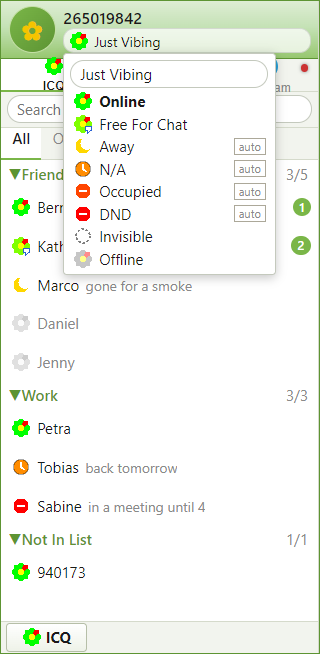
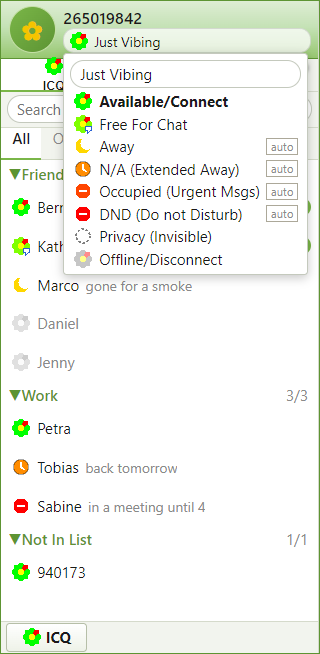
fix: ICQ's own status labels, and correct the N/A rule
Screenshots of the real preferences dialogs and status menu, supplied by the
project owner, close the largest remaining gap — no archive search had turned
up a preferences dialog in either era — and correct two things.

The status labels were shortened. ICQ wrote them with their explanations
attached, and the parenthetical halves are not decoration:

  Available/Connect · Free For Chat · Away · N/A (Extended Away) ·
  Occupied (Urgent Msgs) · DND (Do not Disturb) · Privacy (Invisible) ·
  Offline/Disconnect

"Occupied (Urgent Msgs)" tells you urgent messages still get through, which is
exactly what separates it from DND and is invisible when the label is the bare
word.

The N/A threshold was wrong. The original counts it from when Away began, not
from the last keystroke: "Automatically Set N/A After [5] Minutes of Away".
This was implemented as a second absolute idle timer. The preferences page now
says what it measures.

Also recorded in docs/ORIGINAL-REFERENCE.md, for later work: the full page
lists of the classic Owner Preferences, ICQ 6/7 Options and ICQ 8 Settings;
the per-contact Alert/Accept Modes submenu, which let specific people reach
you through DND and is finer-grained than anything modern messengers offer;
that ICQ 7's Accounts page connected Facebook, Google Talk, Yahoo and others
into one contact list — the same idea this project inherited as its WhatsApp
and Telegram tabs; and the "show me as Occupied when running full-screen
[…]

Changed region(s): [[0.3125, 0.0612, 0.9688, 0.4281], [0.3125, 0.1223, 0.7188, 0.1835]]

diff --git a/src/components/icq/StatusMenu.test.js b/src/components/icq/StatusMenu.test.js
@@ -6,20 +6,32 @@ import StatusMenu, { HISTORY_KEY, HISTORY_MAX } from './StatusMenu';
 
 beforeEach(() => localStorage.clear());
 
+/**
+ * Find a status item by its visible label.
+ *
+ * The accessible name includes the icon's title and the 'auto' marker, so
+ * matching on role+name is ambiguous once labels share words — "Away" is
+ * inside "N/A (Extended Away)".
+ */
+const statusItem = (label) => screen.getAllByRole('menuitemradio')
+  .find((b) => b.querySelector('.icq-status-label').textContent === label);
+
+
 describe('the Status list', () => {
   it('offers all eight Statuses in ICQ order', () => {
     render(<StatusMenu />);
     const labels = screen.getAllByRole('menuitemradio')
       .map((b) => b.querySelector('.icq-status-label').textContent);
     expect(labels).toEqual([
-      'Online', 'Free For Chat', 'Away', 'N/A', 'Occupied', 'DND', 'Invisible', 'Offline',
+      'Available/Connect', 'Free For Chat', 'Away', 'N/A (Extended Away)',
+      'Occupied (Urgent Msgs)', 'DND (Do not Disturb)', 'Privacy (Invisible)', 'Offline/Disconnect',
     ]);
   });
 
   it('marks the current Status', () => {
     render(<StatusMenu current="away" />);
-    expect(screen.getByRole('menuitemradio', { name: /Away/ })).toHaveAttribute('aria-checked', 'true');
-    expect(screen.getByRole('menuitemradio', { name: /^Online/ })).toHaveAttribute('aria-checked', 'false');
+    expect(statusItem('Away')).toHaveAttribute('aria-checked', 'true');
+    expect(statusItem('Available/Connect')).toHaveAttribute('aria-checked', 'false');
   });
 
   it('flags exactly the Statuses that answer on the Owner behalf', () => {
@@ -28,14 +40,14 @@ describe('the Status list', () => {
       .filter((b) => b.querySelector('.icq-status-auto'))
       .map((b) => b.querySelector('.icq-status-label').textContent);
     // Picking Occupied starting to reply for you should not be a surprise.
-    expect(flagged).toEqual(['Away', 'N/A', 'Occupied', 'DND']);
+    expect(flagged).toEqual(['Away', 'N/A (Extended Away)', 'Occupied (Urgent Msgs)', 'DND (Do not Disturb)']);
   });
 
   it('reports the chosen Status and the Status Text together', async () => {
     const user = userEvent.setup();
     const onChange = jest.fn();
     render(<StatusMenu onChange={onChange} statusText="Just Vibing" />);
-    await user.click(screen.getByRole('menuitemradio', { name: /Away/ }));
+    await user.click(statusItem('Away'));
     expect(onChange).toHaveBeenCalledWith('away', 'Just Vibing');
   });
 
@@ -43,7 +55,7 @@ describe('the Status list', () => {
     const user = userEvent.setup();
     const onClose = jest.fn();
     render(<StatusMenu onClose={onClose} onChange={() => {}} />);
-    await user.click(screen.getByRole('menuitemradio', { name: /DND/ }));
+    await user.click(statusItem('DND (Do not Disturb)'));
     expect(onClose).toHaveBeenCalled();
   });
 });
@@ -54,7 +66,7 @@ describe('Status Text', () => {
     const onChange = jest.fn();
     render(<StatusMenu onChange={onChange} />);
     await user.type(screen.getByLabelText(/Status message/i), 'in a meeting');
-    await user.click(screen.getByRole('menuitemradio', { name: /Occupied/ }));
+    await user.click(statusItem('Occupied (Urgent Msgs)'));
     expect(onChange).toHaveBeenCalledWith('occupied', 'in a meeting');
   });
 
@@ -71,7 +83,7 @@ describe('Status Text', () => {
     const onChange = jest.fn();
     render(<StatusMenu onChange={onChange} />);
     await user.type(screen.getByLabelText(/Status message/i), '  spaced  ');
-    await user.click(screen.getByRole('menuitemradio', { name: /^Online/ }));
+    await user.click(statusItem('Available/Connect'));
     expect(onChange).toHaveBeenCalledWith('online', 'spaced');
   });
 });
@@ -98,7 +110,7 @@ describe('remembering Status Texts', () => {
     localStorage.setItem(HISTORY_KEY, JSON.stringify(['old']));
     render(<StatusMenu onChange={() => {}} />);
     await user.type(screen.getByLabelText(/Status message/i), 'new');
-    await user.click(screen.getByRole('menuitemradio', { name: /^Online/ }));
+    await user.click(statusItem('Available/Connect'));
     expect(JSON.parse(localStorage.getItem(HISTORY_KEY))).toEqual(['new', 'old']);
   });
 
@@ -106,14 +118,14 @@ describe('remembering Status Texts', () => {
     const user = userEvent.setup();
     localStorage.setItem(HISTORY_KEY, JSON.stringify(['a', 'b']));
     render(<StatusMenu onChange={() => {}} statusText="b" />);
-    await user.click(screen.getByRole('menuitemradio', { name: /^Online/ }));
+    await user.click(statusItem('Available/Connect'));
     expect(JSON.parse(localStorage.getItem(HISTORY_KEY))).toEqual(['b', 'a']);
   });
 
   it('does not store an empty line', async () => {
     const user = userEvent.setup();
     render(<StatusMenu onChange={() => {}} />);
-    await user.click(screen.getByRole('menuitemradio', { name: /^Online/ }));
+    await user.click(statusItem('Available/Connect'));
     expect(localStorage.getItem(HISTORY_KEY)).toBeNull();
   });
 
@@ -124,7 +136,7 @@ describe('remembering Status Texts', () => {
     ));
     render(<StatusMenu onChange={() => {}} />);
     await user.type(screen.getByLabelText(/Status message/i), 'newest');
-    await user.click(screen.getByRole('menuitemradio', { name: /^Online/ }));
+    await user.click(statusItem('Available/Connect'));
     const stored = JSON.parse(localStorage.getItem(HISTORY_KEY));
     expect(stored).toHaveLength(HISTORY_MAX);
     expect(stored[0]).toBe('newest');

diff --git a/src/components/icq/StatusMenu.js b/src/components/icq/StatusMenu.js
@@ -15,16 +15,25 @@ import './StatusMenu.css';
  *     why picking Occupied starts answering people on your behalf.
  */
 
-/** ICQ's order, with the descriptions the original showed. */
+/**
+ * ICQ's order, with ICQ's own labels.
+ *
+ * The parenthetical halves are not decoration, they are the explanation, and
+ * dropping them loses the distinction. "Occupied (Urgent Msgs)" tells you that
+ * urgent messages still get through — which is exactly what separates it from
+ * DND, and is invisible if the label is just "Occupied".
+ *
+ * Verified from screenshots of the real status menu.
+ */
 const STATUSES = [
-  { name: 'online', label: 'Online', hint: 'Available' },
+  { name: 'online', label: 'Available/Connect', hint: 'Reachable' },
   { name: 'chat', label: 'Free For Chat', hint: 'Looking for someone to talk to' },
   { name: 'away', label: 'Away', hint: 'Stepped out', autoReply: true },
-  { name: 'na', label: 'N/A', hint: 'Away for a while', autoReply: true },
-  { name: 'occupied', label: 'Occupied', hint: 'Busy, but reachable', autoReply: true },
-  { name: 'dnd', label: 'DND', hint: 'Do not disturb', autoReply: true },
-  { name: 'invisible', label: 'Invisible', hint: 'Appear offline, stay connected' },
-  { name: 'offline', label: 'Offline', hint: 'Sign out' },
+  { name: 'na', label: 'N/A (Extended Away)', hint: 'Away for a while', autoReply: true },
+  { name: 'occupied', label: 'Occupied (Urgent Msgs)', hint: 'Busy — urgent messages still arrive', autoReply: true },
+  { name: 'dnd', label: 'DND (Do not Disturb)', hint: 'Nothing gets through', autoReply: true },
+  { name: 'invisible', label: 'Privacy (Invisible)', hint: 'Appear offline, stay connected' },
+  { name: 'offline', label: 'Offline/Disconnect', hint: 'Sign out' },
 ];
 
 const HISTORY_KEY = 'icq-status-history';

diff --git a/electron/lib/icq-presence.js b/electron/lib/icq-presence.js
@@ -26,14 +26,14 @@ const ICQ_NS = 'urn:iseeku:status:0';
  *             this Status. This is the ICQ rule, not an XMPP one.
  */
 const STATUSES = Object.freeze({
-  online: { label: 'Online', show: null, available: true, autoReply: false },
+  online: { label: 'Available/Connect', show: null, available: true, autoReply: false },
   chat: { label: 'Free For Chat', show: 'chat', available: true, autoReply: false },
   away: { label: 'Away', show: 'away', available: true, autoReply: true },
-  na: { label: 'N/A', show: 'xa', available: true, autoReply: true },
-  occupied: { label: 'Occupied', show: 'dnd', available: true, autoReply: true },
-  dnd: { label: 'DND', show: 'dnd', available: true, autoReply: true },
-  invisible: { label: 'Invisible', show: null, available: false, autoReply: false },
-  offline: { label: 'Offline', show: null, available: false, autoReply: false },
+  na: { label: 'N/A (Extended Away)', show: 'xa', available: true, autoReply: true },
+  occupied: { label: 'Occupied (Urgent Msgs)', show: 'dnd', available: true, autoReply: true },
+  dnd: { label: 'DND (Do not Disturb)', show: 'dnd', available: true, autoReply: true },
+  invisible: { label: 'Privacy (Invisible)', show: null, available: false, autoReply: false },
+  offline: { label: 'Offline/Disconnect', show: null, available: false, autoReply: false },
 });
 
 const STATUS_ORDER = Object.freeze([

diff --git a/src/components/icq/Preferences.js b/src/components/icq/Preferences.js
@@ -276,7 +276,10 @@ export default function Preferences({
                     <span>minutes</span>
                   </div>
                 </Field>
-                <Field label="N/A after" htmlFor="pref-idle-na">
+                {/* Counts from when Away began, not from the last keystroke —
+                    which is how the original worked. See
+                    docs/ORIGINAL-REFERENCE.md. */}
+                <Field label="N/A after" htmlFor="pref-idle-na" hint="Counted from when Away began, not from your last keystroke.">
                   <div className="icq-pref-row">
                     <NumberField
                       id="pref-idle-na"

diff --git a/electron/lib/icq-presence.test.js b/electron/lib/icq-presence.test.js
@@ -123,7 +123,8 @@ describe('the Status menu', () => {
   });
 
   it('gives every entry a human label', () => {
-    expect(statusMenu().find((s) => s.name === 'na').label).toBe('N/A');
+    // ICQ's own label, parenthetical and all — see docs/ORIGINAL-REFERENCE.md.
+    expect(statusMenu().find((s) => s.name === 'na').label).toBe('N/A (Extended Away)');
     expect(statusMenu().find((s) => s.name === 'chat').label).toBe('Free For Chat');
   });
 });

diff --git a/docs/ORIGINAL-REFERENCE.md b/docs/ORIGINAL-REFERENCE.md
@@ -239,3 +239,144 @@ a niche feature, it was most of what people did with the client. It also shows
 skins changed background imagery, not only colours — which is the gap the
 current JSON theme format deliberately does not fill, and the reason a
 separate, safe mechanism for user-chosen local images is worth building.
+
+---
+
+## Preferences — VERIFIED from screenshots of the real dialogs
+
+This was the largest remaining gap: no archive search turned up a preferences
+dialog in either era, so the settings dialog was built from what the client
+could actually do rather than from the original's structure. These screenshots
+settle it.
+
+### The eight Statuses — the exact labels
+
+The status menu, verified from two separate screenshots:
+
+| Label as ICQ wrote it | What this project currently calls it |
+|---|---|
+| `Available/Connect` | Online |
+| `Free For Chat` | Free For Chat ✓ |
+| `Away` | Away ✓ |
+| `N/A (Extended Away)` | N/A |
+| `Occupied (Urgent Msgs)` | Occupied |
+| `DND (Do not Disturb)` | DND |
+| `Privacy (Invisible)` | Invisible |
+| `Offline/Disconnect` | Offline |
+
+The parenthetical halves are not decoration — they are the explanation. "Urgent
+Msgs" tells you Occupied still lets urgent messages through, which is exactly
+the distinction from DND that the bare word loses.
+
+### The idle rules — one of them is not what it looks like
+
+From the classic Owner Prefs, Status tab:
+
+- Automatically set **Away** when the screen saver is activated
+- Automatically set **Away** after `N` minutes of *not using the computer*
+- Automatically set **N/A** after `N` minutes **of Away**
+- Show messages in tray in all status modes
+- Disable "Online Alert" messages in Away, DND, N/A and Occupied
+
+**The N/A threshold counts from when Away began, not from the last activity.**
+Defaults seen: Away after 2 minutes, N/A after 5 minutes *of Away*. This
+project currently treats both as absolute idle time, which is wrong.
+
+The same tab held the per-status default away message, with a **Presets**
+dropdown and a *Rename Presets* button — one canned message per status,
+editable and named. One German screenshot shows a DND preset reading
+"Ich will jetzt nicht gestört werden".
+
+### Classic-era Owner Preferences — the page list
+
+Down the left, with icons:
+
+Contact List · Miscellaneous · Status Mode · Connections · Alerts and
+Notifications · Shortcut Bar · Edit Launch List · Voice Message · File
+Transfer · URL Messages · Old Friends Invitation · SMS Messages · Email
+Preferences · ICQ Email Import
+
+An earlier variant also shows *Invite Old Friends / Associations*.
+
+Buttons along the bottom: **Web Information**, **Restore ICQ Defaults**, then
+**OK / Cancel / Apply**.
+
+The Connections page carried four tabs — General, **Server**, Firewall, User —
+with the ICQ server host and port (`login.icq.com`, `5190`), *Auto Configure*
+and *Reset* buttons, proxy settings (Not using Firewall / Using Firewall, with
+SOCKS 4, SOCKS 5 or HTTPS), and a **Keep connection alive** checkbox.
+
+An older tabbed layout put everything across the top instead: Internet
+Phone/Games/Chat · Servers · Connection · Random Chat · Telephone, and below
+that Contact List · Events · Status · Accept · E-Mail · Check E-Mail.
+
+### ICQ 6/7 Options — the page list
+
+Grouped, down the left:
+
+- **Customization:** General · Tweak my ICQ · Notifications · Messages & Files
+- **Privacy & Security:** Privacy · Privacy Lists · History
+- **Advanced:** Connection · SMS & Phone · Advanced
+
+The General page:
+
+- Open ICQ on startup · ICQ always on top · Show "Welcome Screen" when ICQ starts
+- Contact List: remember web search history; what a double-click does —
+  *Open a message* or *Start a call*
+- Status Options: show me as Away after `N` minutes · show me as N/A after `N`
+  minutes · **show me as Occupied when running full-screen applications** ·
+  block notifications and auto-reply invitations when Occupied · forward
+  messages to my mobile when N/A or offline
+
+The full-screen rule is a good idea that predates every "do not disturb while
+presenting" feature by a decade.
+
+### ICQ 8 Settings — the page list
+
+- **Customization:** Tweak my ICQ · Status · Contact list · My Networks
+- **Messaging:** Messages · SMS · File transfer · History · Audio & Video
+- **Advanced:** Sign in · Privacy · Connection
+
+Audio & Video listed camera, microphone and speaker pickers each with a
+*Check* link, plus: play a ringtone on incoming call · notify about incoming
+calls · receive calls from contacts not in the contact list · save call
+history.
+
+### ICQ 7 Preferences — tabs across the top
+
+Connection · Messages · Contact list · Privacy · General · Notifications ·
+Voice and video · Language · **Accounts**
+
+The Accounts page is the interesting one: it connected Facebook, Google Talk,
+Google Mail, Yahoo, Odnoklassniki and VKontakte into one contact list. That is
+the same idea this project inherited as the WhatsApp and Telegram tabs — ICQ
+got there first.
+
+### Per-contact Alert/Accept Modes — VERIFIED from an ICQ 99 context menu
+
+A submenu on each contact, which is a finer-grained privacy model than most
+modern messengers have:
+
+- **User Alerts:** Sound Events · Online Alert · Contact List Popup
+- **Auto:** Auto Accept Chat · Auto Add URL · Auto Receive File
+- **Accept:** Accept In DND · Accept In Occupied · Accept In N/A · Accept In Away
+- **Online Status:** Away To User · Invisible To User · Visible To User ·
+  Access To File Server
+
+"Accept In DND" per contact means specific people could reach you through Do
+Not Disturb. That is worth rebuilding — it is the thing every modern messenger
+fails to offer.
+
+### German strings — more, from a Kopete screenshot
+
+Kopete is not ICQ, so these are a third-party translation rather than ICQ's
+own, and are marked accordingly. They are still useful as evidence of the
+vocabulary German users had for these concepts:
+
+`Autorisierung erforderlich, bevor jemand Sie zu seiner Kontaktliste
+hinzufügen kann` · `IP-Adresse ausblenden` · `Verbindungseinstellungen` ·
+`Einstellungen zur Privatsphäre` · `Direktverbindungs-Einstellungen` ·
+`Zeitüberschreitung nach (Sekunden)` · `Standardkodierung für Nachrichten`
+
+The last one is a reminder that this era predated universal UTF-8 — the default
+was `Windows-1252 Westeuropäisch`.
